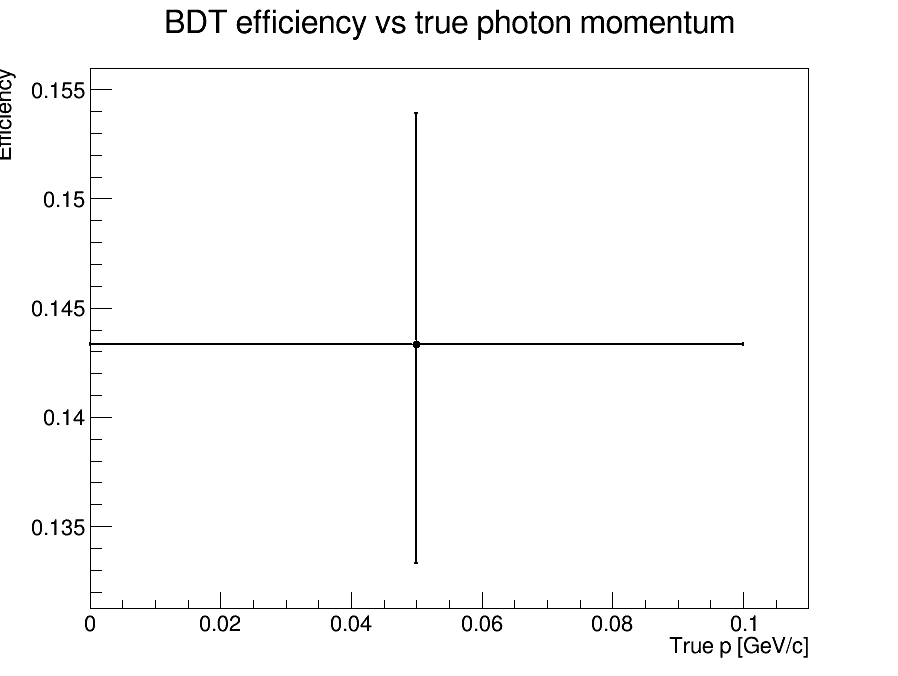
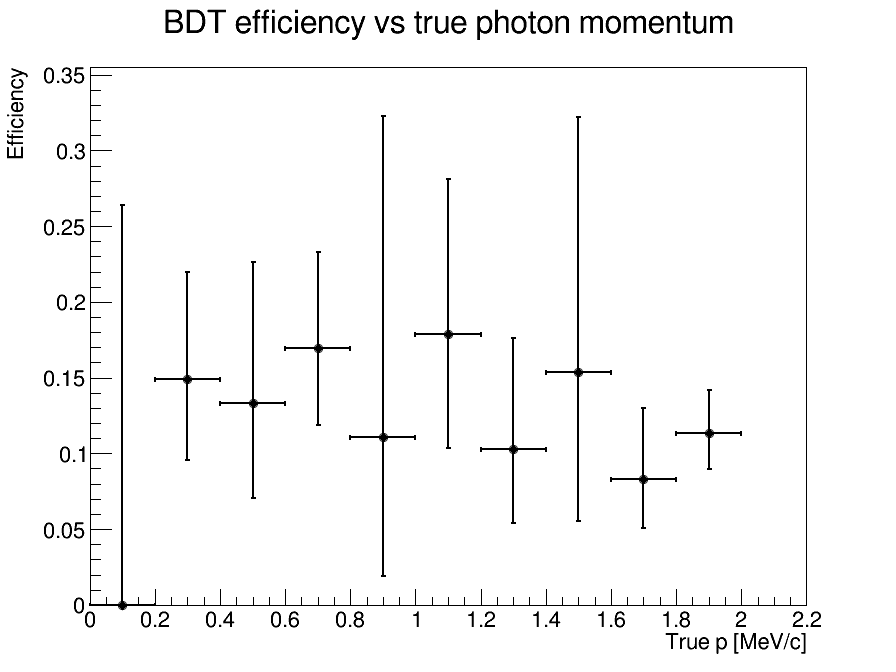
fixed photon eff plot

diff --git a/output/TMVA/32-var/plotEfficiencyP.C b/output/TMVA/32-var/plotEfficiencyP.C
@@ -44,13 +44,15 @@ void plotEffVsMomentum(
 
     gStyle->SetOptStat(0);
 
-    // Adjust ranges/binning after looking at your truth distributions.
-    const int nBins = 20;
+    // Adjust ranges/binning after looking at truth distributions.
+    const int nBins = 10;
     const double pMin = 0.0;
     const double pMax = 2.0; // GeV/c
 
     std::map<std::string, int> pdgs = {
         {"photon", 22},
+	{"muon", -13},
+	{"Sigma", 3212},
         {"Lambda", 3122},
         {"proton", 2212},
         {"pion", 211}
@@ -63,10 +65,19 @@ void plotEffVsMomentum(
 
         effs[name] = new TEfficiency(
             Form("eff_%s", name.c_str()),
-            Form("BDT efficiency vs true %s momentum;True p [GeV/c];Efficiency", name.c_str()),
+            Form("BDT efficiency vs true %s momentum;True p [MeV/c];Efficiency", name.c_str()),
             nBins, pMin, pMax
         );
     }
+
+    Long64_t nSignal = 0;
+    Long64_t nValidVectors = 0;
+    Long64_t nPhoton = 0;
+    Long64_t nMuon = 0;
+    Long64_t nSigma = 0;
+    Long64_t nLambda = 0;
+    Long64_t nProton = 0;
+    Long64_t nPion = 0;
 
     Long64_t nEntries = t->GetEntries();
 
@@ -75,6 +86,7 @@ void plotEffVsMomentum(
 
         // We want signal efficiency, so denominator is true signal events only.
         if (!IsSignal) continue;
+	++nSignal;
 
         if (!TruePDG || !TrueP) continue;
 
@@ -84,48 +96,78 @@ void plotEffVsMomentum(
                       << " vs " << TrueP->size() << std::endl;
             continue;
         }
+	++nValidVectors;
 
         bool foundPhoton = false;
+	bool foundMuon = false;
+	bool foundSigma = false;
         bool foundLambda = false;
         bool foundProton = false;
         bool foundPion   = false;
 
         float pPhoton = -999.f;
+	float pMuon = -999.f;
+	float pSigma = -999.f;
         float pLambda = -999.f;
         float pProton = -999.f;
         float pPion   = -999.f;
 
         for (size_t j = 0; j < TruePDG->size(); ++j) {
             int pdg = TruePDG->at(j);
-            float p = TrueP->at(j);
+            float p = TrueP->at(j) * 1000;
+
+	    std::cout<<"PDG at index "<<j<<" is "<<pdg<<std::endl;
 
             if (pdg == 22 && !foundPhoton) {
                 pPhoton = p;
                 foundPhoton = true;
+		++nPhoton;
+		std::cout<<"Found photon with momentum "<<p<<std::endl;
+            }
+
+	    if (pdg == -13 && !foundMuon) {
+		    pMuon = p;
+		    foundMuon = true;
+		    ++nMuon;
+	    }
+
+	    if (pdg == 3212 && !foundSigma) {
+		    pSigma = p;
+		    foundSigma = true;
+		    ++nSigma;
             }
 
             if (pdg == 3122 && !foundLambda) {
                 pLambda = p;
                 foundLambda = true;
+		++nLambda;
             }
 
             if (pdg == 2212 && !foundProton) {
                 pProton = p;
                 foundProton = true;
+		++nProton;
             }
 
             // Use abs if you want pi+ and pi- grouped together.
             if (std::abs(pdg) == 211 && !foundPion) {
                 pPion = p;
                 foundPion = true;
+		++nPion;
             }
         }
 
         if (foundPhoton) effs["photon"]->Fill(PassBDT, pPhoton);
+	if (foundMuon) effs["muon"]->Fill(PassBDT, pMuon);
+	std::cout<<"Filled muon hist"<<std::endl;
+	if (foundSigma) effs["Sigma"]->Fill(PassBDT, pSigma);
         if (foundLambda) effs["Lambda"]->Fill(PassBDT, pLambda);
         if (foundProton) effs["proton"]->Fill(PassBDT, pProton);
         if (foundPion)   effs["pion"]->Fill(PassBDT, pPion);
     }
+
+    std::cout<<"nSignal = "<<nSignal<<", nValidVectors = "<<nValidVectors<<", nPhoton = "<<nPhoton<<", nPion = "<<nPion<<", nLambda = "<<nLambda<<
+	    ", nProton = "<<nProton<<", nMuon = "<<nMuon<<", nSigma = "<<nSigma<<std::endl;
 
     TFile *out = TFile::Open("efficiency_vs_momentum.root", "RECREATE");
 

diff --git a/output/blindPre.C b/output/blindPre.C
@@ -91,6 +91,7 @@ void blindPre::Loop()
    bool IsSignal;
    std::vector<float> TrueP;
    std::vector<int> TruePDG;
+   std::vector<int> DaughterPDG;
 
    // Tracks, shower lengths
    validTree->Branch("track1Length", &track1Length);
@@ -163,6 +164,7 @@ void blindPre::Loop()
 // trueP and truePDG
    validTree->Branch("TrueP", &TrueP);
    validTree->Branch("TruePDG", &TruePDG);
+   validTree->Branch("DaughterPDG", &DaughterPDG);
 
    int nSig = 0;
    int nBkg = 0;
@@ -404,7 +406,7 @@ void blindPre::Loop()
 
       IsSignal = isSignal;
 
-      if (!trueP || !truePDG){
+      if (!trueP || !truePDG || !daughterPDG){
 	      std::cout<<"null trueP or truePDG pointer"<<std::endl;
 	      continue;
       }
@@ -416,6 +418,7 @@ void blindPre::Loop()
 
       TrueP = *trueP;
       TruePDG = *truePDG;
+      DaughterPDG = *daughterPDG;
 
       // Fill validation tree:
 
